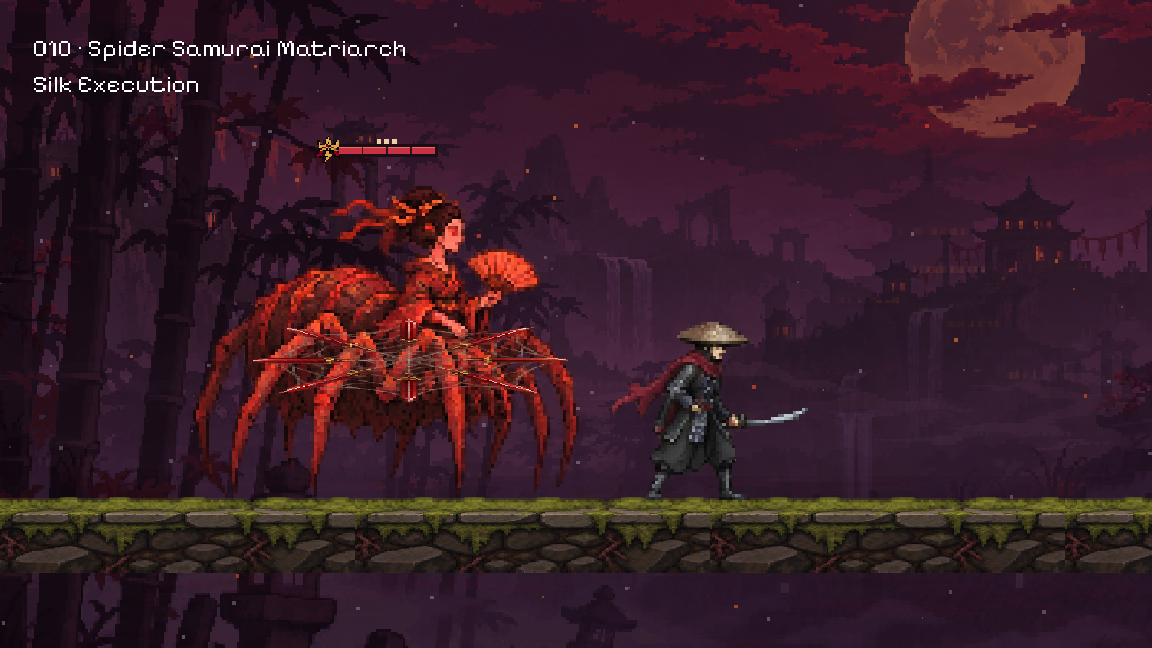
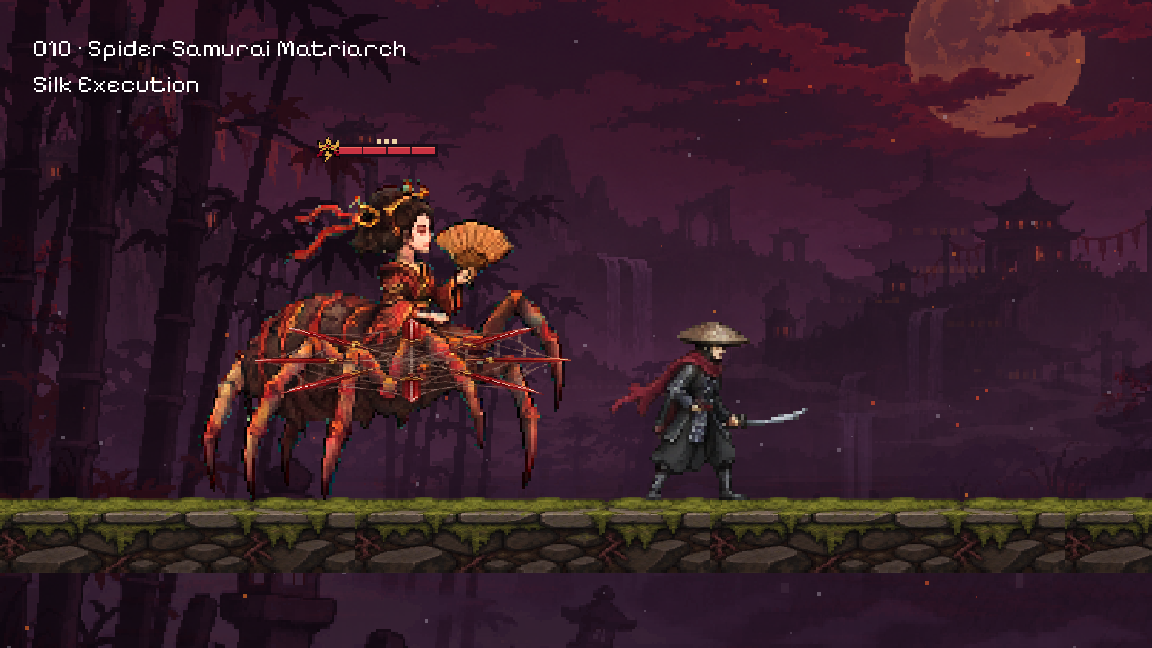
Centralize authored monster body-phase interpretation

Changed region(s): [[0.1562, 0.2778, 0.5, 0.7716]]

diff --git a/docs/AUTHORED_ACTION_REFACTOR.md b/docs/AUTHORED_ACTION_REFACTOR.md
@@ -1,0 +1,17 @@
+# Authored monster body-state ownership
+
+MonsterContract now interprets windup, strike and recovery from its authored clock. Enemy movement and both drawn-cel and legacy motion presentation consume that body state. The enemy still mirrors remaining durations for existing native AI checks and compatibility fixtures; it no longer calculates authored phase durations itself. The contract phase used by existing observers is derived from the same interpretation.
+
+Native/signature attacks retain their timer implementation behind the actor's action-body seam. Hurt/death still override attack presentation. An authored action ending no longer exposes a stale recovery snapshot through that seam.
+
+Travelling-effect contact remains on the existing event timeline. All ten boss identities can contact after body commit ends; these contacts were preserved rather than forced into the strike window. Event scheduling, paths, damage and locked aim were not changed. Physics update order remains the existing order.
+
+Nine suites passed: authored_body_state, monster_attack_clock, monster_ai_timing, monster_cel_animation, monster_death_support, individual_contracts, aquatic_enemies, signature_encounters and underwater_integration. The new test advances actual action/actor methods for all 100 identities and checks the renderer against the authoritative snapshot without manufacturing actor attack timers. It covers all ten delayed boss contacts, interruption and end cleanup. It is a stepped integration test, not 100 human combat playthroughs. Existing natural-AI initiation and full contact tests also passed.
+
+The older signature test assumed exactly four unique placements in authored routes. It now validates any authored signature names and separately exercises all four supported rule fixtures; it does not assert the current campaign contains those placements.
+
+Native staged boss-10 tell/commit/recovery captures were produced; commit was visually inspected. Five short Apple M4 stress samples: medians 6.06–10.18 ms, p95 11.03–12.79 ms. These samples do not guarantee every encounter or machine. AI/individual-contract suite teardown still reports 12–16 ObjectDB instances; no script errors or failing assertions remain in the final run.
+
+The local macOS playtest is rebuilt with deep/strict signature verification. CONTEXT.md records Authored action and Body phase. No UI files were edited in this refactor. Existing route, armory and menu work was retained.
+
+Packaged native level-10 startup smoke passed without reported script errors.

diff --git a/CONTEXT.md b/CONTEXT.md
@@ -16,3 +16,7 @@
 
 **Consumed charge**: A stocked skill use already spent during gameplay. A failed save does not refund its effect or restore its charge in the current session.
 
+**Authored action**: A monster move whose body movement and travelling effects follow one authored clock.
+
+**Body phase**: The windup, strike or recovery portion of an authored action. A travelling effect can make contact after the body has finished its strike.
+
